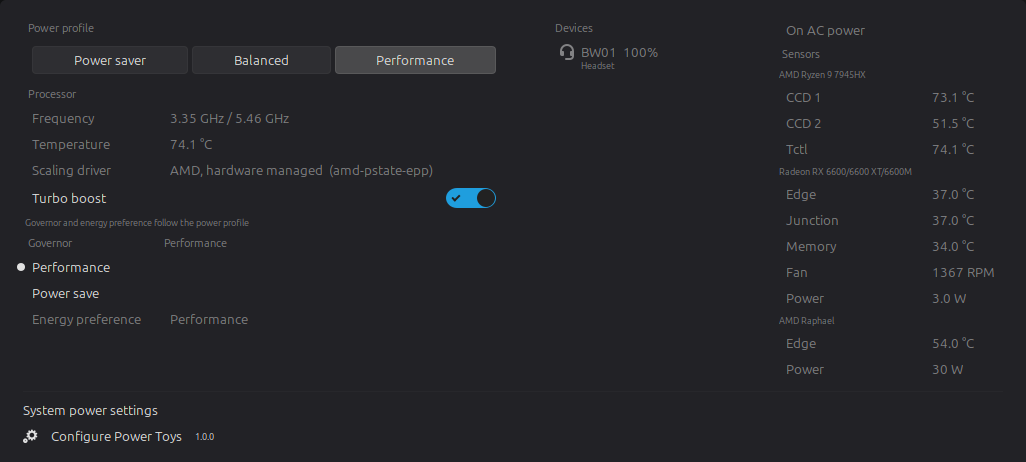
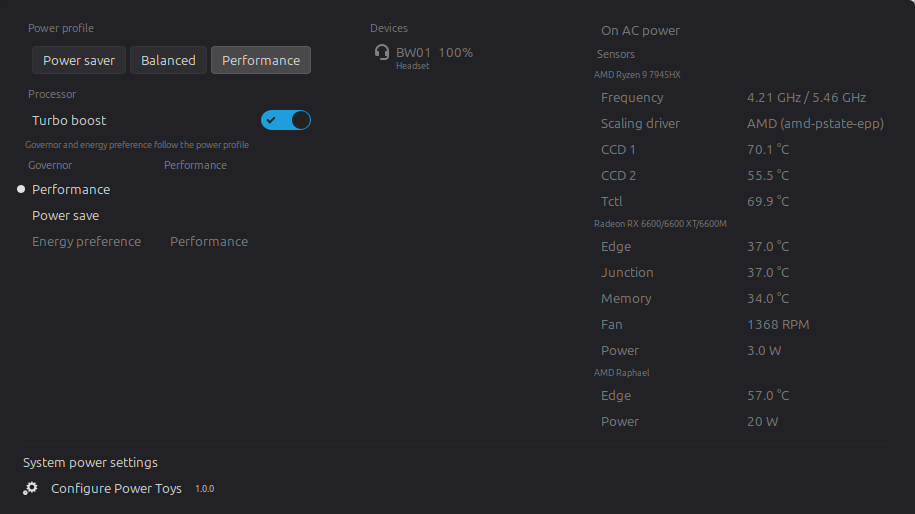
feat: file the processor's readings with its readings
Processor opened with the frequency, the temperature and the scaling driver,
which are three readings sitting above three settings under one heading. They
have moved to where the other readings off that same chip are:

- Frequency and Scaling driver now head the processor's own group in Sensors,
  under the name from /proc/cpuinfo that already heads its temperatures. They
  attach to whichever sensor group came off the processor; on a machine that
  reports no processor temperature at all there is no such group, so the model
  name heads one for them.
- Temperature is gone rather than moved. It was the number Tctl already showed
  three rows further down the same column, and lib/cpu.js still reads it for
  the panel tooltip and the high temperature alert.

The scaling driver reads "AMD (amd-pstate-epp)". It read "AMD, hardware
managed  (amd-pstate-epp)", which says the same thing three times: a driver
whose name ends in -epp is amd_pstate in its active mode and can be no other.
Plain amd-pstate is the guided or the passive mode, and there the word is the
only way to tell which, so it is still added there.

What is left under Processor is turbo boost, the governor and the energy
preference - the things that can be changed. The menu is 915 px wide, from
1026.

Two settings tooltips were describing a menu that has moved on: the preferred
sensor said it appears "in Processor", and both high temperature limits said
[…]

diff --git a/cinnamon-powertoys@geraldo-netto/applet.js b/cinnamon-powertoys@geraldo-netto/applet.js
@@ -1227,10 +1227,15 @@ class MenuPresenter {
     }
 
     /*
-     * What the processor is doing, and what it has been told to do.
+     * What the processor has been told to do. Only that.
      *
-     * All of it, in the order it is asked about: the three readings, then the
-     * three things that can be changed.
+     * It used to open with the frequency, the temperature and the scaling
+     * driver, which are three readings and not three settings. The
+     * temperature was the same number as Tctl under the chip's own name in
+     * the sensors, stated twice in one menu; the other two are readings about
+     * that same chip and are filed with it now, under its name, where the
+     * question "what is this processor doing" is already answered. What is
+     * left here is the three things that can be changed.
      *
      * The governor and the energy preference were behind an *Advanced*
      * disclosure, on the reasoning that they are what a profile sets and are
@@ -1243,13 +1248,6 @@ class MenuPresenter {
     _buildCpuGroup() {
         this._cpuGroup = this._performanceColumn.group(_("Processor"));
         let menu = this._cpuGroup.menu;
-
-        this._cpuFreqRow = new InfoRow(_("Frequency"), "");
-        this._cpuTempRow = new InfoRow(_("Temperature"), "");
-        this._cpuDriverRow = new InfoRow(_("Scaling driver"), "");
-        menu.addMenuItem(this._cpuFreqRow);
-        menu.addMenuItem(this._cpuTempRow);
-        menu.addMenuItem(this._cpuDriverRow);
 
         /* The switch carries its own read-only mode, so unlike the two lists
          * below it needs no second widget: insensitive still shows the state. */
@@ -1573,19 +1571,6 @@ class MenuPresenter {
         if (!show)
             return;
 
-        let frequency = Format.frequency(data.cpu.averageFrequency);
-        if (data.cpu.maxFrequency)
-            frequency += " / " + Format.frequency(data.cpu.maxFrequency);
-        this._cpuFreqRow.setValue(frequency);
-
-        this._cpuTempRow.actor.visible = data.cpuTemperature !== null;
-        if (data.cpuTemperature !== null) {
-            this._cpuTempRow.setValue(Format.temperature(data.cpuTemperature, options.tempUnit, 1));
-            this._cpuTempRow.setWarning(data.cpuTemperature >= options.highTempCelsius);
-        }
-
-        this._cpuDriverRow.setValue(Format.driverLabel(data.cpu.driver, data.cpu.amdPstateStatus));
-
         /* While a privileged change is in flight there is a password dialog
          * on screen and a second click can only queue behind it, so the
          * controls say so rather than pretending to be ready. */
@@ -1691,18 +1676,74 @@ class MenuPresenter {
      * name, so the address is gone from the rows and the two cards are two
      * blocks.
      */
-    _withHeadings(entries) {
+    _withHeadings(entries, leadIn) {
         let out = [];
         let group = null;
+        let placed = !leadIn || leadIn.rows.length === 0;
+
         for (let entry of entries) {
             if (entry.group !== group) {
                 group = entry.group;
                 out.push({ key: "heading:" + group, heading: true,
                            label: entry.groupLabel || Sensors.kindLabel(entry.kind) });
+                if (!placed && group === leadIn.group) {
+                    for (let row of leadIn.rows)
+                        out.push(row);
+                    placed = true;
+                }
             }
             out.push(entry);
         }
+
+        /* The chip the lead-in belongs to reported nothing readable, so it has
+         * no group of its own here. It still has a name and the rows still say
+         * something, so they get a heading of their own at the front. */
+        if (!placed) {
+            out = [{ key: "heading:" + leadIn.group, heading: true, label: leadIn.groupLabel }]
+                .concat(leadIn.rows, out);
+        }
         return out;
+    }
+
+    /*
+     * What the processor says about itself, filed with the readings off the
+     * same chip.
+     *
+     * The frequency and the scaling driver were rows in the Processor group,
+     * where they sat above the governor and the boost switch as though they
+     * were settings. They are not: they are what the chip is doing and what is
+     * doing it, which is the same kind of thing as its temperature. So they go
+     * under the chip's own name, ahead of its temperatures, and the Processor
+     * group is left holding only what can be changed.
+     *
+     * They attach to whichever sensor group came off the processor. Where the
+     * machine reports no processor temperature at all there is no such group,
+     * and the name from /proc/cpuinfo heads one for them.
+     */
+    _cpuReadingRows(data) {
+        if (!data.cpu.available)
+            return null;
+
+        let host = data.temperatures.find(sensor => sensor.kind === "cpu" && sensor.group);
+        let rows = [];
+
+        let frequency = Format.frequency(data.cpu.averageFrequency);
+        if (data.cpu.maxFrequency)
+            frequency += " / " + Format.frequency(data.cpu.maxFrequency);
+        if (frequency)
+            rows.push({ key: "cpu:frequency", label: _("Frequency"),
+                        value: frequency, warning: false });
+
+        let driver = Format.driverLabel(data.cpu.driver, data.cpu.amdPstateStatus);
+        if (data.cpu.driver)
+            rows.push({ key: "cpu:driver", label: _("Scaling driver"),
+                        value: driver, warning: false });
+
+        return {
+            group: host ? host.group : "cpu:processor",
+            groupLabel: host ? host.groupLabel : (data.cpu.model || Sensors.kindLabel("cpu")),
+            rows: rows,
+        };
     }
 
     _updateSensors(data, options) {
@@ -1723,14 +1764,16 @@ class MenuPresenter {
             this._sensorEntries(data.powers, all, () => true,
                                 meter => this._powerEntry(meter)));
 
-        if (entries.length === 0) {
+        let leadIn = this._cpuReadingRows(data);
+
+        if (entries.length === 0 && (!leadIn || leadIn.rows.length === 0)) {
             this._sensorList.sync([{ key: "empty", label: _("No sensors found"),
                                      value: "", warning: false }]);
             return;
         }
 
         entries.sort(Sensors.bySensorOrder);
-        this._sensorList.sync(this._withHeadings(entries));
+        this._sensorList.sync(this._withHeadings(entries, leadIn));
     }
 
     /* Under the devices heading, so it is beside the battery it applies to

diff --git a/cinnamon-powertoys@geraldo-netto/lib/format.js b/cinnamon-powertoys@geraldo-netto/lib/format.js
@@ -300,7 +300,7 @@ function profileIconName(name) {
  * no longer the whole of what the row says.
  */
 var DRIVER_LABELS = {
-    "amd-pstate-epp": _("AMD, hardware managed"),
+    "amd-pstate-epp": _("AMD"),
     "amd-pstate": _("AMD"),
     "acpi-cpufreq": _("ACPI"),
     "intel_pstate": _("Intel"),
@@ -322,17 +322,26 @@ var PSTATE_MODES = {
     "passive": _("kernel managed"),
 };
 
+/*
+ * "AMD (amd-pstate-epp)": whose driver it is, then the driver.
+ *
+ * The mode is only added where the driver's own name does not already carry
+ * it. A driver ending in -epp is amd_pstate in its active mode and can be no
+ * other, so "AMD, hardware managed (amd-pstate-epp)" said the same thing three
+ * times in one row; plain amd-pstate is the guided or the passive mode and
+ * there the word is the only way to tell which.
+ */
 function driverLabel(name, pstateMode) {
     if (!name)
         return _("unknown");
 
     let text = DRIVER_LABELS[name] || name;
-    /* Only worth adding where it says something the driver name does not. */
-    if (pstateMode && PSTATE_MODES[pstateMode] &&
+    let impliedByName = /-epp$/.test(name);
+    if (!impliedByName && pstateMode && PSTATE_MODES[pstateMode] &&
         text.indexOf(PSTATE_MODES[pstateMode]) < 0)
         text += ", " + PSTATE_MODES[pstateMode];
     if (text !== name)
-        text += "  (" + name + ")";
+        text += " (" + name + ")";
     return text;
 }
 

diff --git a/tests/cases/format.js b/tests/cases/format.js
@@ -150,13 +150,15 @@ cases["a profile this applet has no icon for gets none"] = function () {
 
 cases["a scaling driver is named in words, with the kernel's own name kept"] = function () {
     Harness.equal(Format.driverLabel("amd-pstate-epp", "active"),
-                  "AMD, hardware managed  (amd-pstate-epp)",
-                  "the mode is already in the label, so it is not repeated");
+                  "AMD (amd-pstate-epp)",
+                  "a driver ending in -epp is the active mode and can be no other");
     Harness.equal(Format.driverLabel("amd-pstate", "passive"),
-                  "AMD, kernel managed  (amd-pstate)", "the mode says something here");
+                  "AMD, kernel managed (amd-pstate)", "the mode says something here");
+    Harness.equal(Format.driverLabel("amd-pstate", "guided"),
+                  "AMD, guided (amd-pstate)", "and here");
     Harness.equal(Format.driverLabel("intel_pstate", null),
-                  "Intel  (intel_pstate)", "no pstate mode to add");
-    Harness.equal(Format.driverLabel("acpi-cpufreq", null), "ACPI  (acpi-cpufreq)", "acpi");
+                  "Intel (intel_pstate)", "no pstate mode to add");
+    Harness.equal(Format.driverLabel("acpi-cpufreq", null), "ACPI (acpi-cpufreq)", "acpi");
 };
 
 cases["a driver nobody has heard of is shown as it is"] = function () {

diff --git a/cinnamon-powertoys@geraldo-netto/lib/cpu.js b/cinnamon-powertoys@geraldo-netto/lib/cpu.js
@@ -12,6 +12,7 @@
  * the name of the setting being spelled out again at the call site.
  */
 
+const Hardware = require("./lib/hardware.js");
 const IO = require("./lib/io.js");
 
 var CPU_DIR = "/sys/devices/system/cpu";
@@ -56,6 +57,10 @@ var CpuControl = class CpuControl {
         this.energyPreferences = this.reference
             ? IO.readWords(this.reference + "/energy_performance_available_preferences") : [];
         this.amdPstateStatus = IO.readString(CPU_DIR + "/amd_pstate/status");
+
+        /* What the chip is called, so a reading can be filed under the same
+         * heading the sensors off that chip are filed under. */
+        this.model = Hardware.cpuModelName();
 
         /*
          * The ceiling the silicon was built with. It is read here with the
@@ -156,6 +161,7 @@ var CpuControl = class CpuControl {
             boostSupported: this.boostSupported,
             maxFrequency: this.maxFrequency(),
             amdPstateStatus: this.amdPstateStatus,
+            model: this.model,
         };
 
         /*

diff --git a/README.md b/README.md
@@ -63,20 +63,27 @@ names are supported). Shows when the firmware degrades performance and which
 application is holding a profile. On machines without the daemon it falls back
 to the ACPI platform profile in `/sys/firmware/acpi/platform_profile`.
 
-**CPU.** Current and maximum frequency, scaling driver (including the
-`amd_pstate` mode), turbo boost, governor and energy performance preference —
-all of it on screen, none of it behind a disclosure. The last two are what a
-power profile sets, so where power-profiles-daemon is running the menu says
-which of them it is writing: without that line the profile and the two
-settings below it read the same word for no stated reason, which looks like
-three copies of one control rather than one control and its two outputs. They
-stay changeable — a governor set by hand holds until the next profile change
-or mains transition — but nothing pretends the daemon has stopped writing
-them. Where a setting has only one value to offer, and `amd_pstate` narrows
-the energy preferences to exactly one, it is shown as a value rather than as a
-choice of one. Governor, energy preference, boost and the battery charge limit
-are kernel owned, so they are applied through a small validating helper
-launched with `pkexec`.
+**CPU.** *Processor* holds the three things that can be changed — turbo boost,
+governor and energy performance preference — and nothing else, none of it
+behind a disclosure. What the processor is *doing* is a reading and is filed
+with its other readings: the current and maximum frequency and the scaling
+driver sit under the chip's own name in **Sensors**, above its temperatures.
+Its temperature is not repeated at all; it was the same number as `Tctl` three
+rows below.
+
+The governor and the energy preference are what a power profile sets, so where
+power-profiles-daemon is running the menu says which of them it is writing:
+without that line the profile and the two settings below it read the same word
+for no stated reason, which looks like three copies of one control rather than
+one control and its two outputs. They stay changeable — a governor set by hand
+holds until the next profile change or mains transition — but nothing pretends
+the daemon has stopped writing them. Where a setting has only one value to
+offer, and `amd_pstate` narrows the energy preferences to exactly one, it is
+shown as a value rather than as a choice of one.
+
+Governor, energy preference, boost and the battery charge limit are kernel
+owned, so they are applied through a small validating helper launched with
+`pkexec`.
 
 **Temperature and power.** Every hwmon and thermal zone sensor plus fan speeds,
 hwmon power meters (for example the amdgpu GPU package power), RAPL package
@@ -87,7 +94,9 @@ bus from `pci.ids`, a battery by what UPower calls it. So two graphics cards
 read as *Radeon RX 6600/6600 XT/6600M* and *AMD Raphael* rather than as
 `03:00.0` and `08:00.0`, and the rows under each say only what they measure —
 *Edge*, *Junction*, *Fan* — because the heading has already said whose they
-are. The list can be limited to CPU and GPU only.
+are. The processor's frequency and scaling driver head its own group, since
+they are readings off that chip like the rest of them. The list can be limited
+to CPU and GPU only.
 
 **Alerts.** Configurable low and critical battery notifications, separate
 thresholds for peripherals, and an optional high temperature warning. All with
